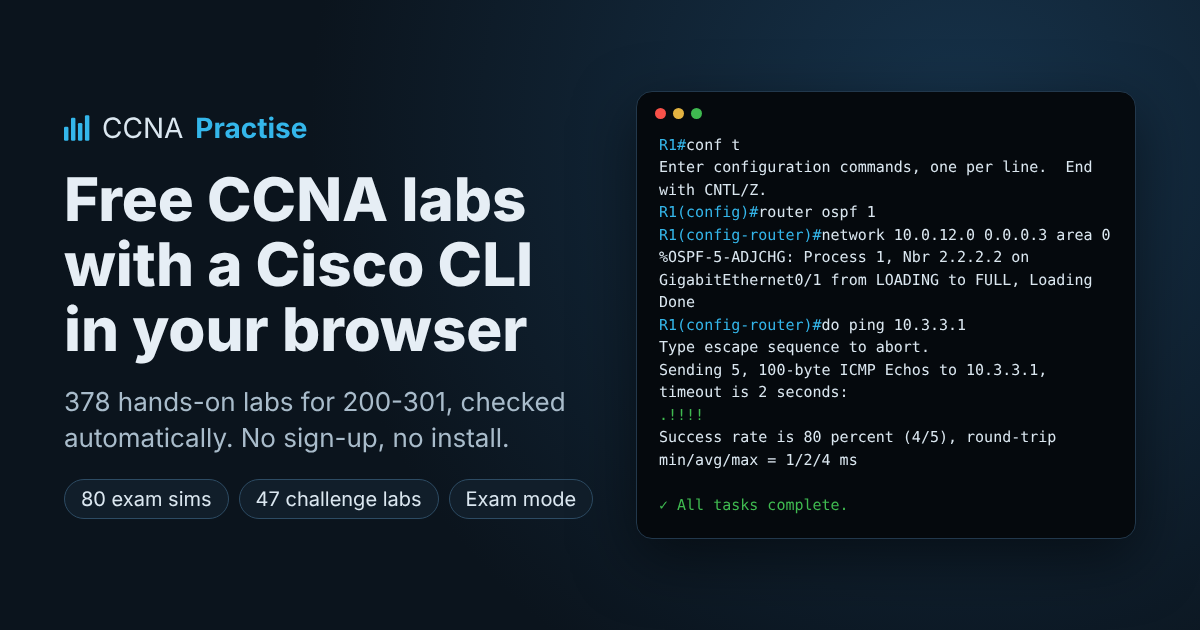
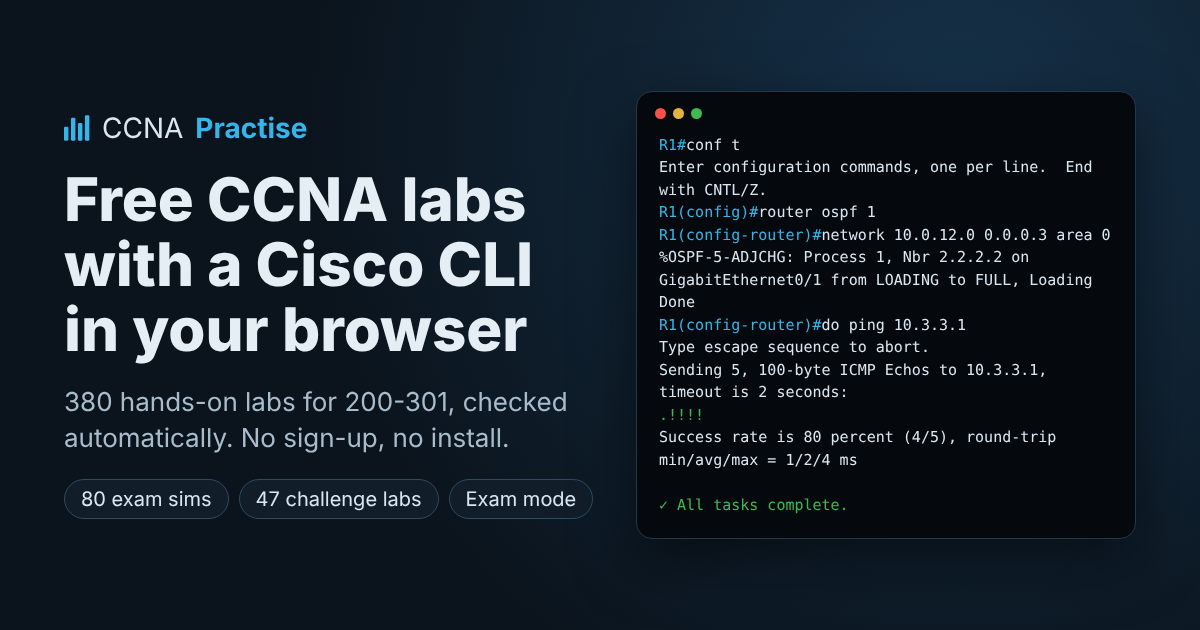
Counts: 380 labs, 104 theory sets; screenshots
Claude-Session: https://claude.ai/code/session_01DKqSYpXcHfRcwFMhr8jyc9

Changed region(s): [[0.0617, 0.6032, 0.4933, 0.6635]]

diff --git a/index.html b/index.html
@@ -4,14 +4,14 @@
 <meta charset="utf-8">
 <meta name="viewport" content="width=device-width, initial-scale=1">
 <title>CCNA Practise: free CCNA 200-301 labs with a Cisco IOS CLI in your browser</title>
-<meta name="description" content="378 free hands-on CCNA 200-301 labs in the browser. Type Cisco IOS commands into routers, switches and PCs; every task is checked against the network you built. Exam mode, challenge labs, no sign-up.">
+<meta name="description" content="380 free hands-on CCNA 200-301 labs in the browser. Type Cisco IOS commands into routers, switches and PCs; every task is checked against the network you built. Exam mode, challenge labs, no sign-up.">
 <meta name="theme-color" content="#0b141d">
 <meta name="build" content="dev">
 <link rel="icon" href="favicon.svg" type="image/svg+xml">
 <meta property="og:type" content="website">
 <meta property="og:site_name" content="CCNA Practise">
 <meta property="og:title" content="CCNA Practise: free CCNA labs with a Cisco IOS CLI in your browser">
-<meta property="og:description" content="378 hands-on labs for CCNA 200-301: routers, switches and PCs you configure from the CLI, checked automatically. Exam mode and challenge labs. Free, no sign-up.">
+<meta property="og:description" content="380 hands-on labs for CCNA 200-301: routers, switches and PCs you configure from the CLI, checked automatically. Exam mode and challenge labs. Free, no sign-up.">
 <meta property="og:url" content="https://arpwatcher.github.io/CCNA-Practise-/">
 <meta property="og:image" content="https://arpwatcher.github.io/CCNA-Practise-/og.png">
 <meta property="og:image:width" content="1200">

diff --git a/README.md b/README.md
@@ -4,7 +4,7 @@
 
 **Free CCNA 200-301 labs with a Cisco IOS command line, right in your browser.**
 
-378 hands-on labs · 80 exam-style simulations · 47 challenge labs · 102 theory question sets · exam mode · no sign-up, no install
+380 hands-on labs · 80 exam-style simulations · 47 challenge labs · 104 theory question sets · exam mode · no sign-up, no install
 
 ### [Open the labs →](https://arpwatcher.github.io/CCNA-Practise-/)
 
@@ -72,7 +72,7 @@ answer passes.
 | IPv6 | addressing, EUI-64, link-local, SLAAC, static routes | 10 |
 | Device management | IOS image, boot system, config-register, TFTP | 4 |
 | Host OS commands | Windows, Linux and macOS: ipconfig, ip addr, ifconfig, routing tables, ARP, DNS, tracepath | 25 |
-| Exhibit questions | subnetting (VLSM, drills, host settings), routing tables (longest match, AD), a DHCP server, ACL counters, interface status and protocol, show ipv6 interface, an O*E2 default route, a DHCP pool with no free address, a duplex mismatch fixed, show ip protocols for OSPF, show ip ospf interface on a passive and an active interface, a named ACL with remarks, a port in a deleted VLAN, log timestamps, show cdp neighbors detail, a floating static route taking over, a new STP root bridge, OSPF neighbors on a shared segment, OSPF on a DROTHER, an EtherChannel member going down, ARP Incomplete, a link down seen from both ends, err-disabled reasons, the network LSA, show interfaces status, EtherChannel summary flags, show version, show standby, show interfaces trunk, MAC and ARP tables, a topology from CDP, route summarization, IPv6 compression, EtherChannel modes, STP election, wildcard masks, ACL placement, OSPF cost, CDP vs LLDP, port security modes, a port security violation, a PAT host that gets no reply, what clear ip nat translation * leaves, an EtherChannel member suspended for its speed, PortFast on a trunk, DNS NXDOMAIN or SERVFAIL, netsh on a Windows client without DHCP, NTP synchronisation, DHCP conflicts, show spanning-tree detail, syslog levels in show logging, an OSPF DR going away and coming back, a desk port with an IP phone, HSRP without preempt, IPv6 static routes, TCP windowing, interface errors, NAT terms, OSPF LSA types, PoE, Layer 3 switches, wireless signal and roaming, IPv6 subnetting, address types and Neighbor Discovery, STP port states and timers, OSPF neighbor states, passwords and hashing, control/data/management planes, private ranges and APIPA, ports and TCP/UDP, DHCP, DNS, SNMP and NTP, syslog, FHRP, 802.1X, WPA/WPA2/WPA3, WLAN creation in the WLC GUI, AP modes, 2.4 GHz channels, threats, VPNs, WAN links, cloud, cabling, architectures, virtualization, SD-Access, REST, JSON, Ansible and other config tools, QoS | 102 |
+| Exhibit questions | subnetting (VLSM, drills, host settings), routing tables (longest match, AD), a DHCP server, ACL counters, interface status and protocol, show ipv6 interface, an O*E2 default route, a DHCP pool with no free address, a duplex mismatch fixed, show ip protocols for OSPF, show ip ospf interface on a passive and an active interface, a named ACL with remarks, a port in a deleted VLAN, log timestamps, show cdp neighbors detail, a floating static route taking over, a new STP root bridge, OSPF neighbors on a shared segment, OSPF on a DROTHER, an EtherChannel member going down, ARP Incomplete, a link down seen from both ends, err-disabled reasons, the network LSA, show interfaces status, EtherChannel summary flags, show version, show standby, show interfaces trunk, MAC and ARP tables, a topology from CDP, route summarization, IPv6 compression, EtherChannel modes, STP election, wildcard masks, ACL placement, OSPF cost, CDP vs LLDP, port security modes, a port security violation, a PAT host that gets no reply, what clear ip nat translation * leaves, an EtherChannel member suspended for its speed, PortFast on a trunk, DNS NXDOMAIN or SERVFAIL, netsh on a Windows client without DHCP, HSRP with faster timers, the ports a Windows PC listens on, NTP synchronisation, DHCP conflicts, show spanning-tree detail, syslog levels in show logging, an OSPF DR going away and coming back, a desk port with an IP phone, HSRP without preempt, IPv6 static routes, TCP windowing, interface errors, NAT terms, OSPF LSA types, PoE, Layer 3 switches, wireless signal and roaming, IPv6 subnetting, address types and Neighbor Discovery, STP port states and timers, OSPF neighbor states, passwords and hashing, control/data/management planes, private ranges and APIPA, ports and TCP/UDP, DHCP, DNS, SNMP and NTP, syslog, FHRP, 802.1X, WPA/WPA2/WPA3, WLAN creation in the WLC GUI, AP modes, 2.4 GHz channels, threats, VPNs, WAN links, cloud, cabling, architectures, virtualization, SD-Access, REST, JSON, Ansible and other config tools, QoS | 104 |
 | Challenge labs | bigger topologies, several topics, faults and questions | 47 |
 | Legacy (not on 200-301) | RIP, EIGRP, VTP | 5 |
 
